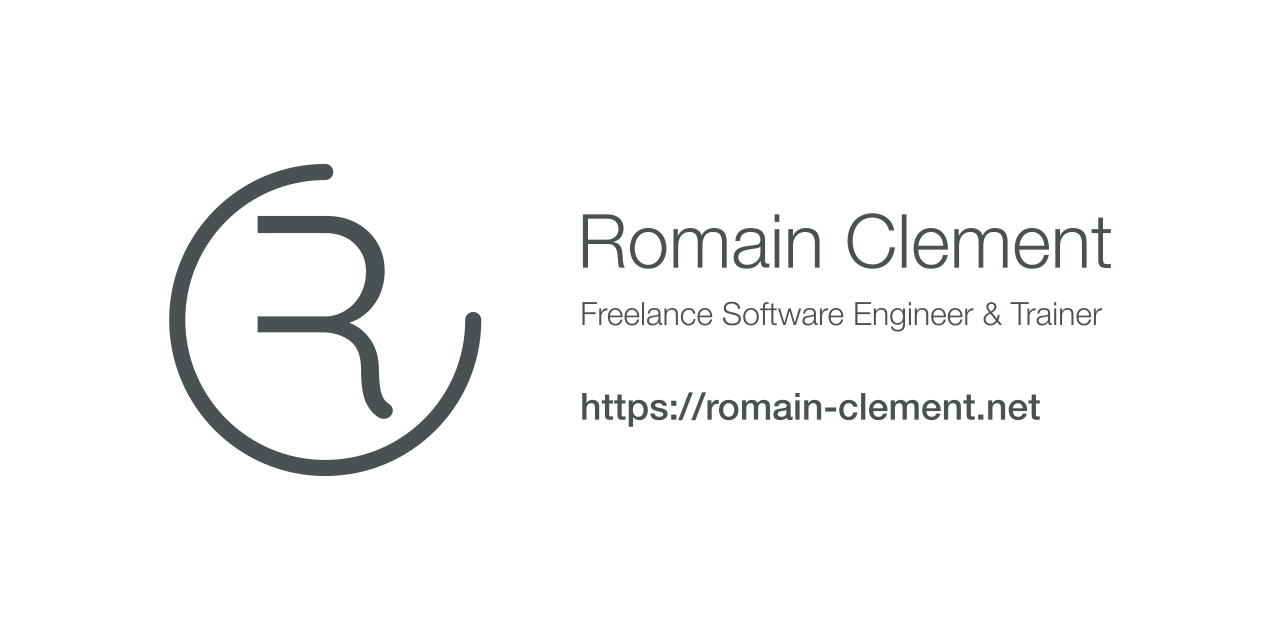
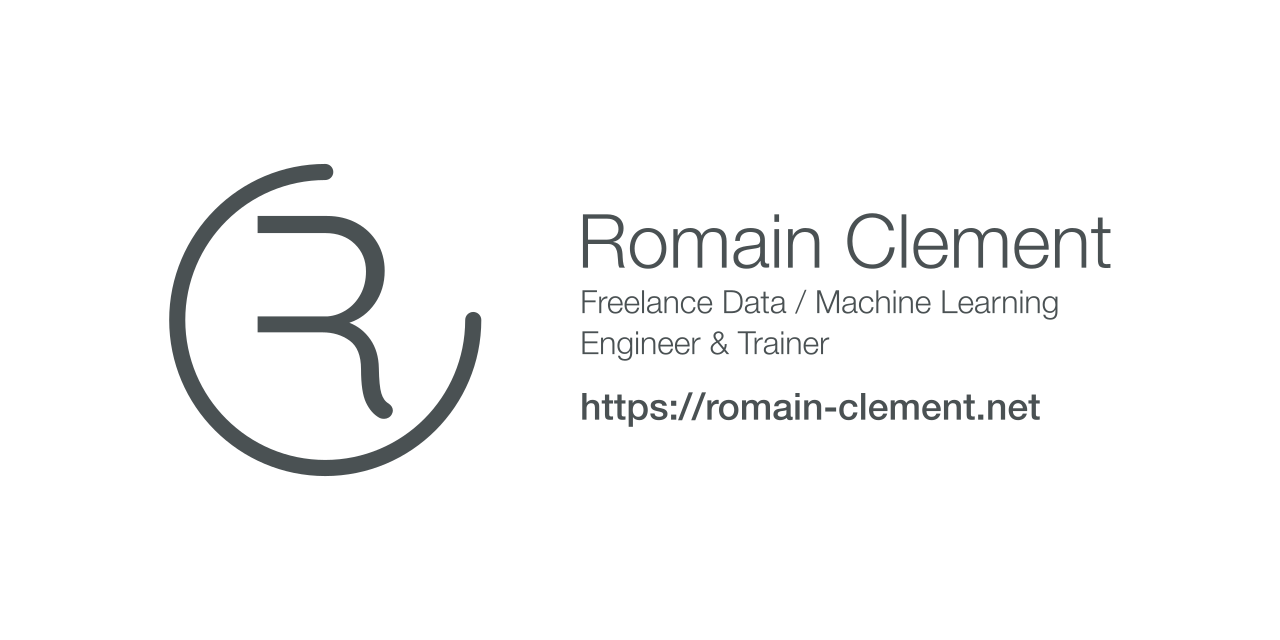
Add french CV and update english CV

Changed region(s): [[0.4375, 0.4375, 0.875, 0.5625], [0.6875, 0.375, 0.7188, 0.4062], [0.5938, 0.375, 0.625, 0.4062]]

diff --git a/content/assets/stylesheets/extra.css b/content/assets/stylesheets/extra.css
@@ -59,8 +59,20 @@ img.client-icon {
   }
 }
 
+/*
+  Workaround for printing purposes (especially to render resumes)
+ */
 @media print {
+  body {
+    zoom: 77%;
+  }
+
   .md-main__inner {
     margin-top: 0;
+  }
+
+  .md-typeset small {
+    opacity: 100%;
+    color: gray;
   }
 }

diff --git a/content/company/cv.md b/content/company/cv.md
@@ -1,4 +1,5 @@
 ---
+title: 🇬🇧 CV
 hide:
   - footer
 robots: noindex, nofollow
@@ -18,15 +19,17 @@ Idea:
 
 # Romain Clement
 
-> Freelance Engineer | MLOps | Data | AI | Training
+> Freelance Data / Machine Learning Engineer & Trainer
 
+[:fontawesome-solid-at:](mailto:cv@romain-clement.net "E-mail")
+<span style="margin-right: 0.5rem;"></span>
+[:fontawesome-solid-phone:](tel:+33686101895 "Phone")
+<span style="margin-right: 0.5rem;"></span>
 [:fontawesome-solid-globe:](https://romain-clement.net "Website")
 <span style="margin-right: 0.5rem;"></span>
 [:fontawesome-brands-linkedin:](https://www.linkedin.com/in/romainclement "LinkedIn")
 <span style="margin-right: 0.5rem;"></span>
 [:fontawesome-brands-github:](https://github.com/rclement "GitHub")
-
-## About
 
 I started my own freelancing company in 2018 with a strong focus on bringing software engineering skills for data and artifical intelligence applications, as well as teaching.
 
@@ -38,6 +41,8 @@ My current domains of expertise and interest include:
 - Active learning teaching
 
 When collaborating with companies, I strive to deliver lean and pragmatic solutions in iterative cycles, in order to develop products with strong added value.
+
+I am also the organizer of the Meetup Python Grenoble, monthly meeting of the alpine Python community.
 
 Interested to work together? Let's talk!
 
@@ -51,63 +56,84 @@ Technologies used on a regular basis (non-exhaustive list):
 - Infrastructure: Docker, Kubernetes, Terraform, Azure, GCP, Scaleway
 - Automation: GitLab-CI, GitHub Actions
 
+## Certifications
+
+**August 2020 - October 2020: Coursera - Stanford Online - Machine Learning**
+:   A comprehensive course on machine learning techniques by Prof. Andrew Ng,
+    with strong practical applications. All the best practices to develop machine
+    learning models are covered. Lots of real-world case studies involving state
+    of the art models are discussed.<br>
+    <small>
+    Artificial Intelligence · Data Science · Supervised Learning · Unsupervised Learning · Neural Networks · Recommender Systems · Anomaly Detection · Natural Language Processing · Computer Vision · Big Data · Octave · Python
+    </small>
+
+**February 2018: CCI Formation Grenoble - 5 jours pour entreprendre**
+:   A 35 hours / 5 days training deep-dive to prepare creating and managing your
+    new business. Extensive case-studies are discussed and practical activities
+    are implementing entrepreneurial tasks (e.g. business model canvas). By the
+    end of the week, one should have all the cards in hands to launch a new company
+    in good conditions.<br>
+    <small>
+    Business Creation · Entrepreneurship · Communication · Marketing · Finance
+    </small>
+
 ## Work Experience
 
-**August 2018 - Present: Freelance Engineer & Trainer | Owner**
+**August 2018 - Present: Data / Machine Learning Engineer & Trainer | Freelance**
 :   I work with companies in data and machine learning applications design and
-    development.
-
-    I am a data and AI development trainer within the Simplon.co network.
+    development. I am also a part-time data and AI development trainer within
+    several education institutes.<br>
+    <small>
+    Data Engineering · Data Science · Machine Learning · Deep Learning · DevOps · MLOps · Python · SQL · Docker · Kubernetes · Terraform · CI/CD
+    </small>
 
 **September 2017 - January 2020: CTO & Co-owner at Sylha**
 :   Responsible for designing and building a fair and social electronic payment system,
     as well as handling technical partnerships with external 3rd-party services
-    (cloud providers, marketplace platform).
+    (cloud providers, marketplace platform). Handled everything related to back-end,
+    front-end and mobile software development, as well as data management.<br>
+    <small>
+    Microservices · REST APIs · Python · Flask · Node.js · Docker · Kubernetes · PostgreSQL · Redis · GitLab-CI
+    </small>
 
-    Handled everything related to back-end, front-end and mobile software development,
-    as well as data management.
-
-**July 2015 - September 2017: Audio Software Engineer at Eiosis / Slate Digital**
+**July 2015 - September 2017: Audio Digital Signal Processing Engineer at Eiosis / Slate Digital**
 :   Audio plugins conception and development for the Eiosis brand (AirEQ, E2Deesser)
     and Slate Digital (Virtual Mix Rack, Virtual Buss Compressors, Virtual Tape Machines).
-
     Multi-platform C++ development (macOS, Windows) compatible with every audio plugin
     standard on the market (VST2, VST3, AU, AAX).
-
     Real-time digital audio signal processing algorithms design and implementation
-    (filtering, compression, analog-modelling).
+    (filtering, compression, analog-modelling).<br>
+    <small>
+    C++ · Python · Data Engineering · Data Science · DSP
+    </small>
 
 **October 2012 - May 2015: Audio Software Engineer at Parrot**
 :   Implementation of real-time digital audio signal processing algorithms applied
     to music (spatialization) and voice (noise reduction, acoustic echo cancellation),
     integrated within Parrot products (hands-free car kits, wireless Hi-Fi speakers,
     wireless headphones).
-
     Assembly optimization for ARM embedded targets (ARMv5, ARMv7 NEON SIMD).
-
-    Development and maintenance of a real-time audio engine dedicated to voice processing.
-
-**May 2012 - September 2012: Intern Audio Software Engineer at IRCAM**
-:   Multi-platform developement of the Audiosculpt software, for audio analysis and
-    synthesis using the SuperVP engine.
+    Development and maintenance of a real-time audio engine dedicated to voice processing.<br>
+    <small>
+    C++ · Python · Data Engineering · Data Science · Machine Learning · DSP
+    </small>
 
 ## Education
 
 **September 2011 - April 2012: The University of Calgary (Canada)**
-:   Exchange Student (Computer Science and Applied Mathematics)
-
-    Refactoring · Digital signal processing · Computer animation · Computer graphics
-    · Computer Vision · Mechatronic art · Electroacoustic Music
+:   Exchange Student Program (Computer Science and Applied Mathematics)<br>
+    <small>
+    Refactoring · Digital signal processing · Computer animation · Computer graphics · Computer Vision · Mechatronic art · Electroacoustic Music
+    </small>
 
 **September 2009 - September 2012: Polytech Grenoble (France)**
-:   MSc Software Engineering and Applied Mathematics
-
-    Software engineering · Computer graphics · Digital signal processing
-    · Numerical analysis · Distributed systems · Project management
-    · Human computer interaction
+:   MSc Software Engineering and Applied Mathematics<br>
+    <small>
+    Software engineering · Computer graphics · Digital signal processing · Numerical analysis · Distributed systems · Project management · Human computer interaction
+    </small>
 
 **September 2007 - June 2009: IUT2 Grenoble (France)**
-:   BSc Computer Science
-
-    Programming languages · Algorithms · Software design & development
-    · Databases · Project management
+:   BSc Computer Science<br>
+    <small>
+    Programming languages · Algorithms · Software design & development · Databases · Project management
+    </small>

diff --git a/content/company/cv_fr.md b/content/company/cv_fr.md
@@ -1,0 +1,120 @@
+---
+title: 🇫🇷 CV
+hide:
+  - footer
+robots: noindex, nofollow
+---
+
+# Romain Clement
+
+> Ingénieur et Formateur Data / Machine Learning | Freelance
+
+[:fontawesome-solid-at:](mailto:cv@romain-clement.net "E-mail")
+<span style="margin-right: 0.5rem;"></span>
+[:fontawesome-solid-phone:](tel:+33686101895 "Téléphone")
+<span style="margin-right: 0.5rem;"></span>
+[:fontawesome-solid-globe:](https://romain-clement.net "Siteweb")
+<span style="margin-right: 0.5rem;"></span>
+[:fontawesome-brands-linkedin:](https://www.linkedin.com/in/romainclement "LinkedIn")
+<span style="margin-right: 0.5rem;"></span>
+[:fontawesome-brands-github:](https://github.com/rclement "GitHub")
+
+J'ai démarré mon entreprise de service freelance en 2018 avec la conviction d'apporter les compétences d'ingénierie logicielle pour les applications orientées données et intelligence artificielle.
+
+Mes domaines d'expertise et d'intérêts actuels inclus :
+
+- L'ingénierie logicielle et de la donnée
+- La data science et l'ingénierie du machine learning
+- Les processus d'assurance qualité, le DevOps et le MLOps
+- La pédagogie active
+
+Lors de mes collaborations, je m'efforce de délivrer des solutions lean et pragmatiques en cycles itératifs, afin de développer des produits à forte valeur ajoutée.
+
+Je suis également organisateur du Meetup Python Grenoble, rendez-vous mensuel de la communauté Python alpine.
+
+Intéressé de travailler ensemble ? Parlons-en !
+
+## Compétences
+
+Technologies utilisées de manière régulière (liste non-exhaustive):
+
+- Ingénierie logicielle: Git, Python, Pytest, Mypy, Black, Flake8, Flask, Django, FastAPI
+- Data Science: Scikit-Learn, Keras, Tensorflow, Pandas, Numpy, Matplotlib, Jupyter
+- Data: PostgreSQL, SQLite, Datasette, Metabase
+- Infrastructure: Docker, Kubernetes, Terraform, Azure, GCP, Scaleway
+- Automatisation: GitLab-CI, GitHub Actions
+
+## Certifications
+
+**Août 2020: Coursera - Stanford Online - Machine Learning**
+:   Une formation complète sur les techniques d'apprentissage automatique par le professeur Andrew Ng,
+    avec une emphase sur les applications réelles. Toutes les meilleures pratiques pour développer des
+    modèles d'apprentissage automatique sont couvertes. De nombreuses études de cas réels impliquant
+    des modèles à l'état de l'art sont discutées.<br>
+    <small>
+    Intelligence Artificielle · Data Science · Apprentissage Supervisé · Apprentissage Non-supervisé · Réseaux de Neurones · Systèmes de Recommandations · Détection d'Anomalies · Traitement du Langage Naturel · Vision par Ordinateur · Big Data · Octave · Python
+    </small>
+
+**Février 2018: CCI Formation Grenoble - 5 jours pour entreprendre**
+:   Une formation de 35 heures / 5 jours pour préparer la création et la gestion de votre nouvelle entreprise.
+    Des études de cas approfondies sont discutées et des activités pratiques mettent en œuvre des tâches entrepreneuriales
+    (par exemple, le business model canvas). À la fin de la semaine, les participants ont toutes les cartes en main pour
+    lancer une nouvelle entreprise dans de bonnes conditions.<br>
+    <small>
+    Création d'Entreprise · Entrepreneuriat · Communication · Marketing · Finance
+    </small>
+
+## Expérience
+
+**Août 2018 - Présent: Ingénieur et Formateur Data / Machine Learning | Freelance**
+:   J'accompagne des entreprises dans la conception et le développement d'applications data et machine learning.
+    Je suis également formateur en Data / IA / DevOps au sein de plusieurs instituts de formation.<br>
+    <small>
+    Data Engineering · Data Science · Machine Learning · Deep Learning · DevOps · MLOps · Python · SQL · Docker · Kubernetes · Terraform · CI/CD
+    </small>
+
+**Septembre 2017 - Janvier 2020: Directeur Technique Associé chez Sylha**
+:   Directeur technique associé pour la conception et le développement d'un réseau monétique social et solidaire.
+    Gestion des partenariat technique avec les services tiers (services cloud, plate-forme de marketplace).
+    Prise en charge de tous les développements en rapport avec le développement back-end, le front-end, le mobile,
+    ainsi que la gestion des données.<br>
+    <small>
+    Microservices · REST APIs · Python · Flask · Node.js · Docker · Kubernetes · PostgreSQL · Redis · GitLab-CI
+    </small>
+
+**Juillet 2015 - Septembre 2017: Ingénieur Traitement de Signal Audio chez Eiosis / Slate Digital**
+:   Conception et développement de plugins audio pour les marques Eiosis (AirEQ, E2Deesser) et Slate Digital (Virtual Mix Rack, Virtual Buss Compressors, Virtual Tape Machines).
+    Développement C++ multi-plateforme (macOS, Windows) compatible avec tous les standards de plugins audio du marché (VST2, VST3, AU, AAX).
+    Design et implémentation d'algorithmes de traitement de signal audio numérique temps-réel (filtrage, compression, modélisation analogique).<br>
+    <small>
+    C++ · Python · Data Engineering · Data Science · DSP
+    </small>
+
+**Octobre 2012 - Mai 2015: Ingénieur Développement Logiciel Audio chez Parrot**
+:   Implémentation d’algorithmes de traitement de signal audio temps-réel en C/C++ pour la musique (égalisation paramétrique, spatialisation) et la voix (réduction de bruit, annulation d’écho acoustique) dans le cadre des produits Parrot (kits mains-libres, casques audio, enceintes Hi-Fi sans-fils).
+    Optimisation en langage assembleur sur cibles embarquées ARM (ARMv5, ARMv7 NEON SIMD).
+    Développement et maintenance d’un moteur audio temps-réel.
+    Encadrement de stage de fin d’étude.<br>
+    <small>
+    C++ · Python · Data Engineering · Data Science · Machine Learning · DSP
+    </small>
+
+## Formation
+
+**Septembre 2011 - Avril 2012: The University of Calgary (Canada)**
+:   Programme d'échange (Computer Science and Applied Mathematics)<br>
+    <small>
+    Refactoring · Digital signal processing · Computer animation · Computer graphics · Computer Vision · Mechatronic art · Electroacoustic Music
+    </small>
+
+**Septembre 2009 - Septembre 2012: Polytech Grenoble (France)**
+:   Ingénieur Réseaux Informatiques et Communication Multimédia<br>
+    <small>
+    Ingenierie logicielle · Synthese d'image · Traitement du signal numerique · Analysis numérique · Systèmes distribués · Gestion de projet · IHM
+    </small>
+
+**Septembre 2007 - Juin 2009: IUT2 Grenoble (France)**
+:   DUT Informatique - Génie Logiciel<br>
+    <small>
+    Langages de programmation · Algorithmique · Conception et developpement logiciel · Bases de données · Gestion de projet
+    </small>

diff --git a/README.md b/README.md
@@ -1,6 +1,6 @@
 # romain-clement.net
 
-> Romain Clement - Freelance Software Engineer & Trainer
+> Romain Clement - Freelance Data / Machine Learning Engineer & Trainer
 
 [![CI/CD](https://github.com/rclement/romain-clement.net/actions/workflows/ci-cd.yml/badge.svg)](https://github.com/rclement/romain-clement.net/actions/workflows/ci-cd.yml)
 [![Coverage Status](https://img.shields.io/codecov/c/github/rclement/romain-clement.net)](https://codecov.io/gh/rclement/romain-clement.net)

diff --git a/content/articles/index.md b/content/articles/index.md
@@ -7,4 +7,4 @@ hide:
 
 :fontawesome-solid-rss: [RSS](/feed/articles/rss.xml) · [Atom](/feed/articles/atom.xml) · [JSON](/feed/articles/feed.json)
 
-I mostly write about software engineering for cloud-native applications. And some other stuff.
+I mostly write about software / data / machine learning engineering for cloud-native applications. And some other stuff.

diff --git a/content/index.md b/content/index.md
@@ -6,7 +6,7 @@ hide:
 
 # Hi, I'm Romain
 
-I am a professional software engineer & trainer from France.
+I am a freelance Data / Machine Learning Engineer & Trainer from France.
 
 On this website you will find:
 
